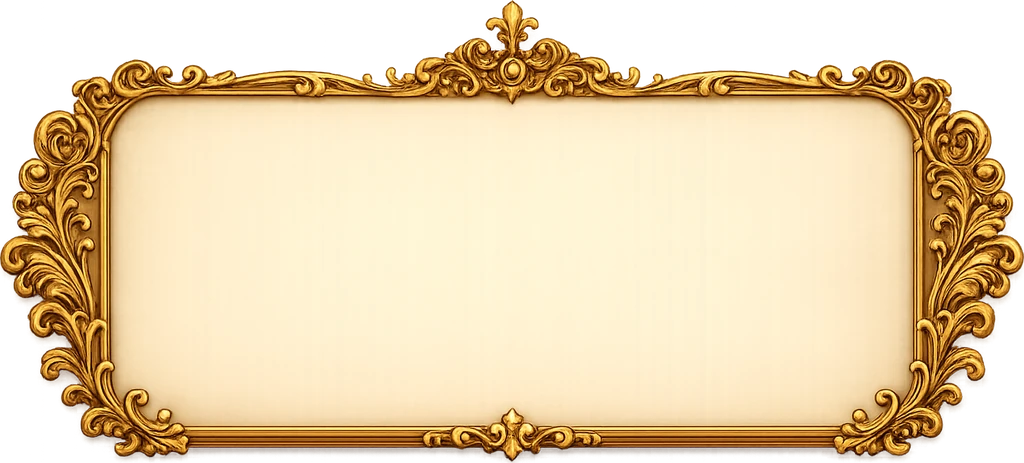
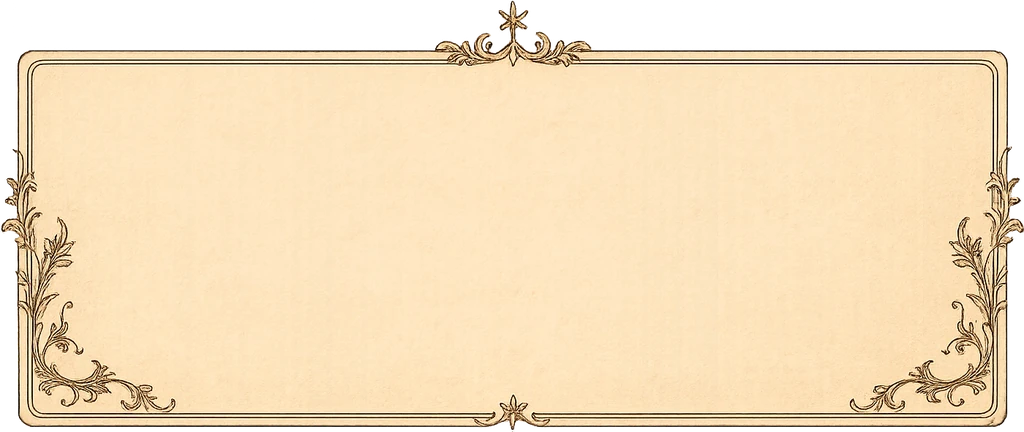
Reflections on each whisper's message; sepia text plaque
- 55 new reflection questions, each asking the reader to sit with that
  day's message rather than describe the card
- Reflections page shows the message, the question and the answer box;
  "Your Reflection" on the dashboard and Whispers page opens it
- Whisper text plaque redrawn in the page's engraved sepia style (no gold);
  title and message are positioned from the plaque's inner rule with equal
  margins, so they stay centred within its border

diff --git a/public/whispers.js b/public/whispers.js
@@ -1,59 +1,59 @@
 /* The 55 whispers (daily cards), shared by the app and the server: [id, title, symbol, message, reflection, art motif].
    Classic script so the browser can load it directly; lib/art.mjs imports it for the same list. */
 globalThis.KOSMIA_WHISPERS=[
- ["open-path", "The Open Path", "path", "Not every delay is a denial. Sometimes the space between where you are and where you wish to be is where your greatest transformation happens.", "What could this moment be teaching you?", "a winding path climbing gently through hills toward a single bright star"],
- ["quiet-moon", "The Quiet Moon", "moon", "Rest is not the opposite of progress. The moon does not apologise for her dark phase, and neither should you.", "Where am I asking myself for more than I can give?", "a slender crescent moon resting in a hush of dark-blue night and soft clouds"],
- ["rising-sun", "The Rising Sun", "sun", "You do not need to see the whole road to take the first step. Light arrives one morning at a time.", "What one small step can I take today?", "a sun just clearing the horizon, long rays fanning over a still sea"],
- ["steady-star", "The Steady Star", "star", "You cannot command the stars, but you can choose how you navigate beneath them.", "What is within my control today?", "a four-pointed guiding star above a small boat on calm water"],
- ["inner-key", "The Inner Key", "key", "The answer you are waiting for may already be in your hands. Stillness often shows us what noise hides.", "What do I already know but have not yet admitted?", "an ornate antique key held in open cupped hands, glowing softly"],
- ["late-bloom", "The Late Bloom", "flower", "Some things flower in their own season. Comparing your pace to another’s garden only hides your own growth.", "What in me is quietly growing?", "a single flower opening in an autumn garden while other stems rest"],
- ["watchful-eye", "The Watchful Eye", "eye", "Attention is a form of care. Notice what repeats, and ask gently what it is trying to say.", "What pattern keeps asking for my attention?", "a serene open eye framed by a crescent and scattered stars"],
- ["distant-ship", "The Distant Ship", "ship", "Not everything that sails away is lost. Some departures carry you toward the harbour you are meant to find.", "What am I ready to let travel on without me?", "a sailing ship far out on the horizon heading toward a lit harbour"],
- ["old-tree", "The Old Tree", "tree", "Roots grow in the dark long before branches are seen. Trust the slow work nobody applauds.", "What am I building that takes time?", "an ancient tree with deep roots visible beneath the earth, stars in its branches"],
- ["turning-wheel", "The Turning Wheel", "wheel", "Seasons turn whether we are ready or not. What you do inside each one is the part that belongs to you.", "Which season am I in right now?", "a wheel of the four seasons, spring blossom to winter frost around its rim"],
- ["white-lily", "The White Lily", "lily", "Gentleness is not weakness. Speak to yourself today the way you would to someone you love.", "What would kindness look like right now?", "a white lily in soft moonlight with dew on its petals"],
- ["clear-crystal", "The Clear Crystal", "crystal", "Clarity rarely arrives all at once. It forms, layer by layer, whenever you stay honest with yourself.", "What feels clearer than it did a week ago?", "a faceted quartz crystal catching starlight and splitting it into soft colour"],
- ["first-light", "The First Light", "sun", "Every beginning feels small from the inside. Tend the spark, and let it become a flame in its own time.", "What am I beginning, however quietly?", "a single candle flame glowing at dawn"],
- ["silver-thread", "The Silver Thread", "moon", "You are connected to more than you can see. A kind word sent today travels further than you know.", "Who could use a word from me?", "a silver thread linking two distant lanterns across the night"],
- ["still-water", "The Still Water", "lily", "When the surface settles, the depths become visible. Give your thoughts a moment to grow still.", "What becomes clear when I slow down?", "a mirror-still lake reflecting the moon"],
- ["open-door", "The Open Door", "key", "An invitation is waiting at the edge of your comfort. You do not have to walk through, only to look.", "What door have I been avoiding?", "an ancient arched door standing ajar with light beyond"],
- ["gentle-rain", "The Gentle Rain", "flower", "What feels like a grey day may be the very thing that helps you grow. Let it soften the ground.", "What is this season watering in me?", "soft rain falling on a blossoming garden"],
- ["north-star", "The North Star", "star", "When the way is unclear, return to what you value most. It has not moved, even if you have.", "What matters most to me, beneath it all?", "the pole star shining above a lone traveller on a path"],
- ["quiet-harvest", "The Quiet Harvest", "tree", "You have gathered more than you think. Pause to count what you have grown before reaching for more.", "What am I already reaping?", "golden wheat sheaves under a harvest moon"],
- ["hidden-garden", "The Hidden Garden", "flower", "There is a part of you that blooms only in private. Visit it today and water it with kindness.", "What do I keep just for myself?", "a walled garden glimpsed through an ivy-covered gate"],
- ["the-bridge", "The Bridge", "path", "Between where you stand and where you hope to be, there is always a crossing. Build it one plank at a time.", "What is the next plank?", "a stone bridge arching over a misty river"],
- ["the-lantern", "The Lantern", "sun", "You do not need to light the whole world. Carry enough light for the next few steps.", "What small light can I carry today?", "a lantern held aloft in a dark forest"],
- ["wild-horse", "The Wild Horse", "path", "Some part of you wants to run free. Let it stretch its legs, even for an hour.", "Where am I holding myself back?", "a wild horse galloping across moonlit plains"],
- ["golden-hour", "The Golden Hour", "sun", "Beauty arrives in brief windows. Look up when the light changes; it will not wait for you to finish.", "What beauty did I almost miss?", "a sunset bathing rolling hills in gold"],
- ["deep-roots", "The Deep Roots", "tree", "Storms reveal how deeply you are rooted. You are steadier than this moment makes you feel.", "What keeps me grounded?", "a great oak holding fast in a gale"],
- ["returning-tide", "The Returning Tide", "ship", "What has drifted away may yet come back to you. Hold your shore with patience.", "What am I waiting for, and how can I wait well?", "the tide rolling back over a moonlit beach"],
- ["the-mirror", "The Mirror", "eye", "What unsettles you in others may be a message about yourself. Look gently, not harshly.", "What is this reflecting back to me?", "an ornate hand mirror reflecting a starry sky"],
- ["the-feather", "The Feather", "lily", "Not everything needs to be carried with effort. Let something be light today.", "What can I hold more loosely?", "a single feather drifting on a breeze"],
- ["the-spiral", "The Spiral", "wheel", "You are not going in circles. You are rising, meeting old lessons from a higher place.", "Which lesson is returning, and what do I know now?", "a spiral staircase climbing towards the stars"],
- ["the-ember", "The Ember", "sun", "A fire you thought had gone out still glows beneath the ash. Breathe on it gently.", "What passion is waiting to be rekindled?", "glowing embers in an old stone hearth"],
- ["the-compass", "The Compass", "star", "Your inner direction is quieter than the noise around you, but it always points true.", "Which way does my heart point?", "a brass compass resting on an old map"],
- ["nightingale", "The Nightingale", "moon", "Sing even if no one is listening. Your voice is not only for applause.", "What would I express if no one judged it?", "a nightingale singing on a moonlit branch"],
- ["crossroads", "The Crossroads", "path", "Every path ahead holds something to learn. Choose the one that feels most like you.", "Which choice feels most true?", "a weathered signpost where three country roads meet"],
- ["sanctuary", "The Sanctuary", "lily", "Rest is a place you are allowed to return to. Make a small sanctuary in your day.", "Where do I feel most at peace?", "a candlelit stone chapel with open arched windows"],
- ["butterfly", "The Butterfly", "flower", "Change can feel like coming apart. Trust that you are becoming something with wings.", "What is changing in me?", "a butterfly emerging from its chrysalis"],
- ["lighthouse", "The Lighthouse", "star", "You can be a steady light for someone without leaving your own rock. Shine where you stand.", "Who looks to me for steadiness?", "a lighthouse beam sweeping over a stormy sea"],
- ["the-seed", "The Seed", "tree", "Plant something today, an idea, an apology, a hope, and do not dig it up to check on it.", "What am I ready to plant?", "a seedling sprouting from dark rich soil"],
- ["two-moons", "The Two Moons", "moon", "Two things can be true at once. You can grieve and hope, rest and dream.", "What two truths am I holding?", "two moons rising side by side over the sea"],
- ["the-weaver", "The Weaver", "wheel", "Every thread of your day becomes part of a larger pattern. Weave with care.", "What pattern am I weaving?", "a loom weaving golden threads into a tapestry of stars"],
- ["the-mountain", "The Mountain", "path", "The summit is not the only reward. Notice the view from where you already stand.", "How far have I already come?", "a winding trail up a mountain beneath the stars"],
- ["the-owl", "The Owl", "eye", "Wisdom often speaks at night, when the noise of the day has settled. Listen to your quiet thoughts.", "What do I know in quiet moments?", "an owl perched on an ancient tree at night"],
- ["golden-key", "The Golden Key", "key", "The answer may be simpler than the problem seems. Try the obvious door first.", "What simple step have I overlooked?", "a golden key glowing on a velvet cushion"],
- ["the-river", "The River", "ship", "You do not have to push the river. Find the current and let it carry you a while.", "Where can I stop forcing?", "a river winding through a moonlit valley"],
- ["the-phoenix", "The Phoenix", "sun", "What ended was not the end of you. Something brighter is gathering in the ashes.", "What is rising in me?", "a phoenix rising in gold and flame"],
- ["the-lotus", "The Lotus", "lily", "Beautiful things can grow from muddy places. Your difficulties are not wasted.", "What has grown from my hardest times?", "a lotus blooming from a dark pond"],
- ["stargazer", "The Stargazer", "star", "Dream bigger than today allows. The sky has always made room for wonder.", "What do I secretly wish for?", "a figure gazing at the heavens through a brass telescope"],
- ["the-hearth", "The Hearth", "sun", "Home is not only a place. It is the warmth you bring to the people around you.", "Who feels at home with me?", "a glowing hearth with a teapot and a sleeping cat"],
- ["the-wind", "The Wind", "path", "A change is in the air. Lift your sails rather than bracing against it.", "What change can I welcome?", "wind filling the sails of a small boat"],
- ["the-fox", "The Fox", "eye", "Be wise with your energy today. Not every battle needs you.", "What can I let pass by?", "a fox watching quietly from tall grass at dusk"],
- ["the-chalice", "The Chalice", "crystal", "Your heart is a vessel, not a bottomless well. Fill your own cup before you pour.", "What refills me?", "a golden chalice overflowing with starlight"],
- ["the-eclipse", "The Eclipse", "moon", "Even the brightest light is sometimes hidden. This shadow is passing, not permanent.", "What is only temporarily obscured?", "a solar eclipse with a glowing corona"],
- ["the-tapestry", "The Tapestry", "wheel", "Your story is still being woven. Do not judge the whole cloth by a single thread.", "Which chapter am I in?", "an unfinished tapestry on an old wooden loom"],
- ["the-blossom", "The Blossom", "flower", "Joy is allowed to arrive without a reason. Let something delight you today.", "What has delighted me lately?", "cherry blossoms drifting in spring light"],
- ["sacred-flame", "The Sacred Flame", "crystal", "Protect what is sacred to you. It deserves a little shelter from the wind.", "What deserves my protection?", "a flame burning inside a crystal lantern"],
- ["dawn-chorus", "The Dawn Chorus", "sun", "The world begins again every morning, and so can you. Nothing is required but showing up.", "How can I begin again today?", "birds singing in the trees as dawn breaks"]
+ ["open-path", "The Open Path", "path", "Not every delay is a denial. Sometimes the space between where you are and where you wish to be is where your greatest transformation happens.", "If the waiting is itself part of the becoming, what might you be missing by treating this moment only as a delay?", "a winding path climbing gently through hills toward a single bright star"],
+ ["quiet-moon", "The Quiet Moon", "moon", "Rest is not the opposite of progress. The moon does not apologise for her dark phase, and neither should you.", "Who taught you that your worth is measured by your output, and do you still believe them?", "a slender crescent moon resting in a hush of dark-blue night and soft clouds"],
+ ["rising-sun", "The Rising Sun", "sun", "You do not need to see the whole road to take the first step. Light arrives one morning at a time.", "What would you dare to begin if you no longer needed certainty about where it ends?", "a sun just clearing the horizon, long rays fanning over a still sea"],
+ ["steady-star", "The Steady Star", "star", "You cannot command the stars, but you can choose how you navigate beneath them.", "Where have you been spending your strength trying to control the sky, instead of learning to steer by it?", "a four-pointed guiding star above a small boat on calm water"],
+ ["inner-key", "The Inner Key", "key", "The answer you are waiting for may already be in your hands. Stillness often shows us what noise hides.", "What do you already know, deep down, that you keep waiting for someone else to confirm?", "an ornate antique key held in open cupped hands, glowing softly"],
+ ["late-bloom", "The Late Bloom", "flower", "Some things flower in their own season. Comparing your pace to another’s garden only hides your own growth.", "If no one else’s garden existed, how would you judge the pace of your own growth?", "a single flower opening in an autumn garden while other stems rest"],
+ ["watchful-eye", "The Watchful Eye", "eye", "Attention is a form of care. Notice what repeats, and ask gently what it is trying to say.", "What keeps returning to your life, and what might it be asking you to finally understand?", "a serene open eye framed by a crescent and scattered stars"],
+ ["distant-ship", "The Distant Ship", "ship", "Not everything that sails away is lost. Some departures carry you toward the harbour you are meant to find.", "What departure that once felt like loss has quietly carried you somewhere you needed to be?", "a sailing ship far out on the horizon heading toward a lit harbour"],
+ ["old-tree", "The Old Tree", "tree", "Roots grow in the dark long before branches are seen. Trust the slow work nobody applauds.", "Which part of your work matters most precisely because no one will ever see it?", "an ancient tree with deep roots visible beneath the earth, stars in its branches"],
+ ["turning-wheel", "The Turning Wheel", "wheel", "Seasons turn whether we are ready or not. What you do inside each one is the part that belongs to you.", "If you cannot choose the season, what would it mean to live this one fully rather than wait for the next?", "a wheel of the four seasons, spring blossom to winter frost around its rim"],
+ ["white-lily", "The White Lily", "lily", "Gentleness is not weakness. Speak to yourself today the way you would to someone you love.", "Whose voice do you hear when you speak to yourself harshly, and is it really yours?", "a white lily in soft moonlight with dew on its petals"],
+ ["clear-crystal", "The Clear Crystal", "crystal", "Clarity rarely arrives all at once. It forms, layer by layer, whenever you stay honest with yourself.", "What truth about your life have you been avoiding, and what might become clear if you stopped?", "a faceted quartz crystal catching starlight and splitting it into soft colour"],
+ ["first-light", "The First Light", "sun", "Every beginning feels small from the inside. Tend the spark, and let it become a flame in its own time.", "Why do we so often dismiss beginnings for being small, when everything great began that way?", "a single candle flame glowing at dawn"],
+ ["silver-thread", "The Silver Thread", "moon", "You are connected to more than you can see. A kind word sent today travels further than you know.", "If every kindness travels further than you can see, what are you sending out into the world today?", "a silver thread linking two distant lanterns across the night"],
+ ["still-water", "The Still Water", "lily", "When the surface settles, the depths become visible. Give your thoughts a moment to grow still.", "What do you lose by never letting your mind fall quiet enough to see its own depths?", "a mirror-still lake reflecting the moon"],
+ ["open-door", "The Open Door", "key", "An invitation is waiting at the edge of your comfort. You do not have to walk through, only to look.", "Is it fear of what lies beyond the door, or fear of who you might become there, that keeps you from looking?", "an ancient arched door standing ajar with light beyond"],
+ ["gentle-rain", "The Gentle Rain", "flower", "What feels like a grey day may be the very thing that helps you grow. Let it soften the ground.", "Can you recall a difficult season that later revealed itself as the soil for something good?", "soft rain falling on a blossoming garden"],
+ ["north-star", "The North Star", "star", "When the way is unclear, return to what you value most. It has not moved, even if you have.", "When everything around you shifts, what is the one value you would refuse to give up?", "the pole star shining above a lone traveller on a path"],
+ ["quiet-harvest", "The Quiet Harvest", "tree", "You have gathered more than you think. Pause to count what you have grown before reaching for more.", "What would change if you measured your life by what you have gathered rather than by what you still lack?", "golden wheat sheaves under a harvest moon"],
+ ["hidden-garden", "The Hidden Garden", "flower", "There is a part of you that blooms only in private. Visit it today and water it with kindness.", "What part of you exists only in private, and does it receive the same care you give your public self?", "a walled garden glimpsed through an ivy-covered gate"],
+ ["the-bridge", "The Bridge", "path", "Between where you stand and where you hope to be, there is always a crossing. Build it one plank at a time.", "What is the smallest honest step toward the person you hope to become?", "a stone bridge arching over a misty river"],
+ ["the-lantern", "The Lantern", "sun", "You do not need to light the whole world. Carry enough light for the next few steps.", "Why do we feel we must solve everything at once, when life only ever asks for the next step?", "a lantern held aloft in a dark forest"],
+ ["wild-horse", "The Wild Horse", "path", "Some part of you wants to run free. Let it stretch its legs, even for an hour.", "Which rules you live by did you choose, and which did you simply inherit?", "a wild horse galloping across moonlit plains"],
+ ["golden-hour", "The Golden Hour", "sun", "Beauty arrives in brief windows. Look up when the light changes; it will not wait for you to finish.", "If beauty only ever arrives in passing, what would it mean to live in a way that notices it?", "a sunset bathing rolling hills in gold"],
+ ["deep-roots", "The Deep Roots", "tree", "Storms reveal how deeply you are rooted. You are steadier than this moment makes you feel.", "What holds you steady when everything else shakes, and have you thanked it lately?", "a great oak holding fast in a gale"],
+ ["returning-tide", "The Returning Tide", "ship", "What has drifted away may yet come back to you. Hold your shore with patience.", "Can you love something without needing it to return, and still leave room for it to come back?", "the tide rolling back over a moonlit beach"],
+ ["the-mirror", "The Mirror", "eye", "What unsettles you in others may be a message about yourself. Look gently, not harshly.", "What does your strongest reaction to someone else reveal about what you have not yet accepted in yourself?", "an ornate hand mirror reflecting a starry sky"],
+ ["the-feather", "The Feather", "lily", "Not everything needs to be carried with effort. Let something be light today.", "What are you carrying out of habit rather than necessity, and what would happen if you set it down?", "a single feather drifting on a breeze"],
+ ["the-spiral", "The Spiral", "wheel", "You are not going in circles. You are rising, meeting old lessons from a higher place.", "What lesson keeps finding you, and how has the way you meet it changed since the last time?", "a spiral staircase climbing towards the stars"],
+ ["the-ember", "The Ember", "sun", "A fire you thought had gone out still glows beneath the ash. Breathe on it gently.", "What did you once love so fiercely that part of it still glows in you, waiting?", "glowing embers in an old stone hearth"],
+ ["the-compass", "The Compass", "star", "Your inner direction is quieter than the noise around you, but it always points true.", "If you silenced every outside opinion for one day, which direction would you walk?", "a brass compass resting on an old map"],
+ ["nightingale", "The Nightingale", "moon", "Sing even if no one is listening. Your voice is not only for applause.", "What would you create, say or become if no one were ever going to applaud it?", "a nightingale singing on a moonlit branch"],
+ ["crossroads", "The Crossroads", "path", "Every path ahead holds something to learn. Choose the one that feels most like you.", "If every path teaches you something, what makes one path truly yours?", "a weathered signpost where three country roads meet"],
+ ["sanctuary", "The Sanctuary", "lily", "Rest is a place you are allowed to return to. Make a small sanctuary in your day.", "Why does rest so often feel like something we must earn, rather than something we are allowed?", "a candlelit stone chapel with open arched windows"],
+ ["butterfly", "The Butterfly", "flower", "Change can feel like coming apart. Trust that you are becoming something with wings.", "What part of you is falling apart so that something truer can take its place?", "a butterfly emerging from its chrysalis"],
+ ["lighthouse", "The Lighthouse", "star", "You can be a steady light for someone without leaving your own rock. Shine where you stand.", "How can you be a light for others without abandoning the ground you stand on?", "a lighthouse beam sweeping over a stormy sea"],
+ ["the-seed", "The Seed", "tree", "Plant something today, an idea, an apology, a hope, and do not dig it up to check on it.", "What would you plant today if you trusted that its growth did not depend on your watching it?", "a seedling sprouting from dark rich soil"],
+ ["two-moons", "The Two Moons", "moon", "Two things can be true at once. You can grieve and hope, rest and dream.", "Which two opposing truths are you holding right now, and what if neither had to win?", "two moons rising side by side over the sea"],
+ ["the-weaver", "The Weaver", "wheel", "Every thread of your day becomes part of a larger pattern. Weave with care.", "If today were the only thread you could add to your life’s tapestry, how would you want it to look?", "a loom weaving golden threads into a tapestry of stars"],
+ ["the-mountain", "The Mountain", "path", "The summit is not the only reward. Notice the view from where you already stand.", "If you never reached the summit, would the climb still have been worth it?", "a winding trail up a mountain beneath the stars"],
+ ["the-owl", "The Owl", "eye", "Wisdom often speaks at night, when the noise of the day has settled. Listen to your quiet thoughts.", "What do you know at night, in the quiet, that you forget to honour by day?", "an owl perched on an ancient tree at night"],
+ ["golden-key", "The Golden Key", "key", "The answer may be simpler than the problem seems. Try the obvious door first.", "Why do we so often distrust the simple answer, as if difficulty were proof of truth?", "a golden key glowing on a velvet cushion"],
+ ["the-river", "The River", "ship", "You do not have to push the river. Find the current and let it carry you a while.", "Where in your life are you pushing against a current that might carry you if you let it?", "a river winding through a moonlit valley"],
+ ["the-phoenix", "The Phoenix", "sun", "What ended was not the end of you. Something brighter is gathering in the ashes.", "What ending in your life made room for a beginning you could not have imagined at the time?", "a phoenix rising in gold and flame"],
+ ["the-lotus", "The Lotus", "lily", "Beautiful things can grow from muddy places. Your difficulties are not wasted.", "What has your hardest experience given you that an easier life never could?", "a lotus blooming from a dark pond"],
+ ["stargazer", "The Stargazer", "star", "Dream bigger than today allows. The sky has always made room for wonder.", "What dream have you made smaller in order to make it seem possible?", "a figure gazing at the heavens through a brass telescope"],
+ ["the-hearth", "The Hearth", "sun", "Home is not only a place. It is the warmth you bring to the people around you.", "Who feels at home in your presence, and what is it that you offer them?", "a glowing hearth with a teapot and a sleeping cat"],
+ ["the-wind", "The Wind", "path", "A change is in the air. Lift your sails rather than bracing against it.", "What change are you resisting that might, if welcomed, carry you forward?", "wind filling the sails of a small boat"],
+ ["the-fox", "The Fox", "eye", "Be wise with your energy today. Not every battle needs you.", "Which battles in your life are truly yours to fight, and which have you simply been drawn into?", "a fox watching quietly from tall grass at dusk"],
+ ["the-chalice", "The Chalice", "crystal", "Your heart is a vessel, not a bottomless well. Fill your own cup before you pour.", "What does it look like to care for yourself as faithfully as you care for others?", "a golden chalice overflowing with starlight"],
+ ["the-eclipse", "The Eclipse", "moon", "Even the brightest light is sometimes hidden. This shadow is passing, not permanent.", "If this darkness is only passing, what light in you is it waiting to reveal again?", "a solar eclipse with a glowing corona"],
+ ["the-tapestry", "The Tapestry", "wheel", "Your story is still being woven. Do not judge the whole cloth by a single thread.", "Which single moment have you allowed to define your whole story, and is that fair to you?", "an unfinished tapestry on an old wooden loom"],
+ ["the-blossom", "The Blossom", "flower", "Joy is allowed to arrive without a reason. Let something delight you today.", "When did you last let yourself feel joy without needing a reason to deserve it?", "cherry blossoms drifting in spring light"],
+ ["sacred-flame", "The Sacred Flame", "crystal", "Protect what is sacred to you. It deserves a little shelter from the wind.", "What do you hold sacred, and how well are you protecting it from the winds of the everyday?", "a flame burning inside a crystal lantern"],
+ ["dawn-chorus", "The Dawn Chorus", "sun", "The world begins again every morning, and so can you. Nothing is required but showing up.", "If you could begin again this morning, what would you choose to leave behind in yesterday?", "birds singing in the trees as dawn breaks"]
 ];

diff --git a/public/app.js b/public/app.js
@@ -235,14 +235,14 @@ views.home=()=>{
  return `<div class="stack">
  <p class="quote thought">“${THOUGHTS[Number(dkey().replace(/-/g,''))%THOUGHTS.length]}”</p>
  <section class="today">${pic('scenes',sign.id,'today-art')}<div class="today-in"><h2>${long(now)}</h2><p>${h.body}</p><button class="btn" data-go="horoscopes">More</button></div></section>
- <section class="whisper"><h2>A Whisper From the Cosmos</h2>${cardScene(c,rev,'homeCard')}${rev?'':`<button class="btn" data-act="reveal">Reveal My Whisper</button>`}</section>
+ <section class="whisper"><h2>A Whisper From the Cosmos</h2>${cardScene(c,rev,'homeCard')}${rev?`<button class="btn" data-act="toreflect">Your Reflection</button>`:`<button class="btn" data-act="reveal">Reveal My Whisper</button>`}</section>
  ${panel(`<h2>Cosmic Energy Today</h2><div class="label">Astronomy</div><p>The Moon is ${m.name.toLowerCase()}, about ${Math.round(m.ill*100)}% illuminated. The Sun is in ${ss.name}.</p><div class="rule"></div><div class="label">Astrological interpretation</div><p>${moonRef(m)}</p>`)}
  <div class="stack" style="gap:10px"><h2>Upcoming Cosmic Events</h2><div class="scroller" tabindex="0" aria-label="Upcoming events">${ev.map(e=>panel(`<h3>${e.name}</h3><p class="muted">${evt(e.date)}</p><p style="font-size:.88rem">${e.a}</p><p style="font-size:.88rem;font-style:italic">${e.s}</p><p class="muted">“${e.r}”</p>`)).join('')}</div></div>
  </div>`;
 };
 function cardScene(c,flipped,id){
  const sp=Array.from({length:10},(_,i)=>`<i class="spark" style="left:${10+i*8}%;top:${30+(i%4)*14}%;--dx:${(i%2?1:-1)*(10+i*4)}px;--dy:${-30-i*6}px"></i>`).join('');
- return `<div class="scene ${flipped?'flipped':''}" id="${id}" role="button" tabindex="0" aria-label="${flipped?esc(c.title+'. '+c.msg):'Today’s whisper, face down. Press to reveal.'}" data-act="reveal"><div class="card3d"><div class="face back"></div><div class="face front daily">${pic('whispers',c.id,'day-art')||`<div class="ph">${symbol(c.sym)}</div>`}<div class="card-banner"><div class="cb-title">${c.title}</div><p>${c.msg}</p></div></div></div>${sp}</div>`;
+ return `<div class="scene ${flipped?'flipped':''}" id="${id}" role="button" tabindex="0" aria-label="${flipped?esc(c.title+'. '+c.msg):'Today’s whisper, face down. Press to reveal.'}" data-act="reveal"><div class="card3d"><div class="face back"></div><div class="face front daily">${pic('whispers',c.id,'day-art')||`<div class="ph">${symbol(c.sym)}</div>`}<div class="card-banner"><div class="cb-in"><div class="cb-title">${c.title}</div><p>${c.msg}</p></div></div></div></div>${sp}</div>`;
 }
 /* ---------- AI: painted cards (OpenAI) and read-aloud (ElevenLabs), signed-in only ---------- */
 const AUDIO=new Map();let player=null;
@@ -276,9 +276,9 @@ views.love=()=>{
 views.fortune=()=>{
  const c=todayCard(),rev=!!S.revealed[dkey()],t=tab();
  if(t==='collection')return `<div class="stack"><h1>My Collection</h1>${S.saved.length?S.saved.slice().reverse().map(x=>{const o=ORACLE.find(c=>c.id===x.id);return o?panel(`<h3>${o.title}</h3><p class="muted">${x.date}</p><p class="quote" style="font-size:1.1rem">${o.msg}</p>${S.notes[x.date]?`<p class="muted">Your note: ${esc(S.notes[x.date])}</p>`:''}`):''}).join(''):panel('<h3>No cards saved yet</h3><p>Your cosmic collection begins with today’s whisper.</p>')}</div>`;
- if(t==='reflections')return `<div class="stack"><h1>Reflections</h1>${rev?panel(`<div class="label">${c.title}</div><p class="quote" style="font-size:1.1rem">${c.ref}</p><label class="label" for="note">Private reflection</label><textarea id="note" placeholder="What does this message mean to me today?">${esc(S.notes[dkey()]||'')}</textarea><button class="btn" data-act="savenote">Save reflection</button><p class="muted">${C.user?'Synced to your account and private to you.':'Stored in this browser. Sign in from Settings to keep it private in your account.'}</p>`):panel('<h3>Reveal today’s card first</h3><p>Your reflection space opens once you have received today’s message.</p>')}</div>`;
+ if(t==='reflections')return `<div class="stack"><h1>Reflections</h1>${rev?panel(`<div class="label">Today’s whisper · ${c.title}</div><p class="quote reflect-msg">“${c.msg}”</p><div class="rule"></div><div class="label">Sit with it</div><p class="reflect-q">${c.ref}</p><label class="label" for="note">Your reflection</label><textarea id="note" placeholder="Take your time. Write whatever rises.">${esc(S.notes[dkey()]||'')}</textarea><button class="btn" data-act="savenote">Save reflection</button><p class="muted">${C.user?'Synced to your account and private to you.':'Stored in this browser. Sign in from Settings to keep it private in your account.'}</p>`):panel('<h3>Reveal today’s card first</h3><p>Your reflection space opens once you have received today’s message.</p>')}</div>`;
  const sv=S.saved.some(x=>x.date===dkey());
- return `<div class="stack" style="align-items:stretch"><h1 style="text-align:center">Whispers</h1><p class="quote" style="text-align:center">The universe has a message waiting for you.</p>${cardScene(c,rev,'fortuneCard')}${rev?panel(`${listenBtn(c.title+'. '+c.msg)}<div class="label">Reflection</div><p>${c.ref}</p><button class="btn ghost" data-act="savecard" ${sv?'disabled':''}>${sv?'Saved to My Collection':'Save This Whisper'}</button>`)+paintPanel(c):`<button class="btn" data-act="reveal" style="align-self:center">Reveal My Card</button>`}<p class="muted" style="text-align:center">One card per day. It stays the same until your local date changes.</p></div>`;
+ return `<div class="stack" style="align-items:stretch"><h1 style="text-align:center">Whispers</h1><p class="quote" style="text-align:center">The universe has a message waiting for you.</p>${cardScene(c,rev,'fortuneCard')}${rev?panel(`${listenBtn(c.title+'. '+c.msg)}<button class="btn" data-act="toreflect">Your Reflection</button><button class="btn ghost" data-act="savecard" ${sv?'disabled':''}>${sv?'Saved to My Collection':'Save This Whisper'}</button>`)+paintPanel(c):`<button class="btn" data-act="reveal" style="align-self:center">Reveal My Card</button>`}<p class="muted" style="text-align:center">One card per day. It stays the same until your local date changes.</p></div>`;
 };
 views.tarot=()=>{
  const t=tab(),T=V.tarot;
@@ -444,6 +444,7 @@ document.addEventListener('click',e=>{
    .then(u=>{if(V.say!==txt)return;player=new Audio(u);player.onended=()=>{player=null;V.say=null;render()};return player.play()})
    .catch(e=>{if(V.say===txt){V.say=null;render()}toast(e.message||'Could not play the reading')});
   return}
+ if(a==='toreflect')return go('fortune','reflections');
  if(a==='toauth'){V.auth=S.email?'in':'up';return go('welcome')}
  if(a==='authmode'){const em=$('#em');if(em)S.email=em.value.trim();V.auth=V.auth==='in'?'up':'in';render();const f=$(S.email?'#pw':'#em');if(f)f.focus();return}
  if(a==='forgot'){const em=$('#em'),email=em?em.value.trim():'';

diff --git a/public/styles.css b/public/styles.css
@@ -166,15 +166,20 @@ body.onboarding::after{content:"";position:fixed;inset:-60px;z-index:-1;backgrou
 /* thin sepia scrollbars on sideways rows (sign picker, events) instead of the stark default */
 *{scrollbar-width:thin;scrollbar-color:rgba(139,106,62,.55) transparent}
 /* whisper card: lunar-chart back (art/cards/back.webp); the front is that whisper's artwork (art/whispers) with its
-   message on the gilded plaque (art/cards/plaque.webp, 2.21:1, cream panel inset 11.5% sides, 10% top, 4% bottom) */
+   message on an engraved sepia plaque (art/cards/plaque.webp, 1400x591: inner rule x 54-1347, y 87-565) */
 .face.front.daily{padding:0;justify-content:flex-end;background:#F2E7D0 url(/art/frame-paper.webp) center/200% auto}
 .day-art{position:absolute;inset:0;width:100%;height:100%;object-fit:cover}
 .ph{position:absolute;inset:0 0 34%;display:flex;align-items:center;justify-content:center;padding:18px}
 .ph svg{width:58%;height:auto}
-.card-banner{position:relative;z-index:1;margin:0 3% 4%;aspect-ratio:2.213;display:flex;flex-direction:column;align-items:center;justify-content:center;gap:2px;padding:9.5% 12% 4.5%;background:url(/art/cards/plaque.webp) center/100% 100% no-repeat;filter:drop-shadow(0 5px 9px rgba(20,14,8,.55));text-align:center;color:#3A2A1A}
+.card-banner{position:relative;z-index:1;align-self:stretch;margin:0 3% 4%;aspect-ratio:1400/591;background:url(/art/cards/plaque.webp) center/100% 100% no-repeat;filter:drop-shadow(0 4px 10px rgba(20,14,8,.45));color:var(--plum)}
+/* text box = the inner rule inset by an equal margin on every side (and clear of the corner vines), so it stays centred in the border */
+.cb-in{position:absolute;left:12%;right:12%;top:calc(14.7% + 5%);bottom:calc(4.4% + 5%);display:flex;flex-direction:column;align-items:center;justify-content:center;gap:2px;text-align:center}
 /* plaque text scales with the card (container units) so the longest whisper fits on a 320px phone */
 .cb-title{font-family:var(--serif);font-weight:700;font-size:clamp(8px,3.9cqw,12px);letter-spacing:.16em;text-transform:uppercase}
 .card-banner p{font-family:var(--serif);font-style:italic;font-weight:600;font-size:clamp(9px,4.3cqw,13.5px);line-height:1.2}
 /* dashboard: the card sits straight on the page, no box */
 .whisper{display:flex;flex-direction:column;align-items:center;gap:16px;text-align:center}
 .whisper h2{font-size:1.5rem}
+/* reflections: the day's message, then the question to sit with */
+.reflect-msg{font-size:1.08rem;color:var(--mauve)}
+.reflect-q{font-family:var(--serif);font-weight:600;font-size:1.35rem;line-height:1.3}
